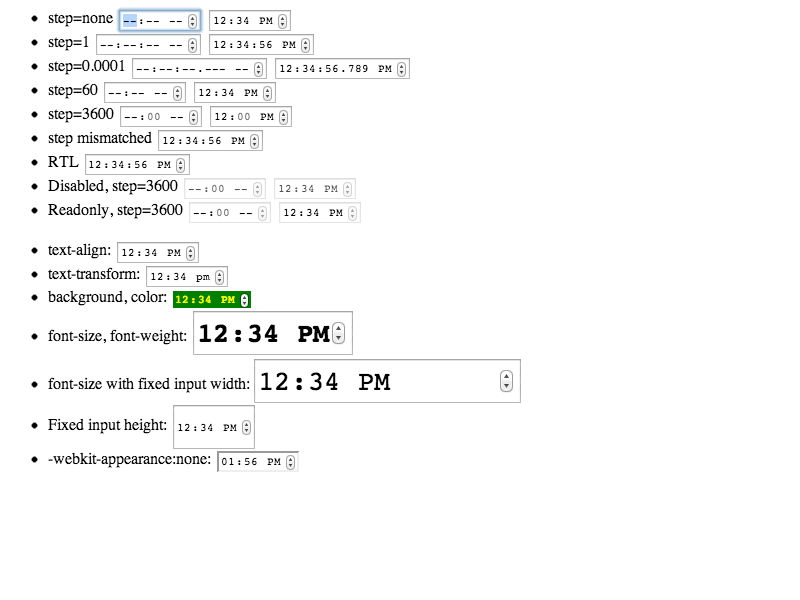
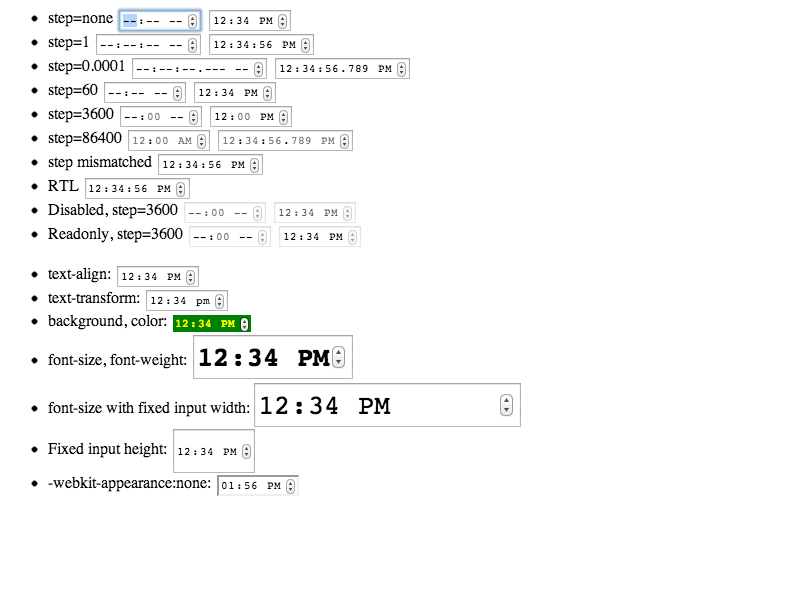
Source/WebCore: INPUT_MULTIPLE_FIELDS_UI: The hour, am/pm, millisecond fields should support read-only state correctly https://bugs.webkit.org/show_bug.cgi?id=104210
Reviewed by Kentaro Hara.

1. The hour, am/pm, and millisecond fields should have CSS rules for
   [readonly]. They should be gray when they are read-only.
2. The am/pm field should reject to set an empty value like other
   numeric fields do.

Tests: Add test cases to fast/forms/time/time-appearance-basic.html.

* css/html.css: merge existing readonly rules, and add ampm, hour, and
millisecond pseudo classes.
* html/shadow/DateTimeSymbolicFieldElement.cpp:
(WebCore::DateTimeSymbolicFieldElement::setEmptyValue):
Reject to set empty value if it is read-only.

LayoutTests: INPUT_MULTIPLE_FIELDS_UI: The hour field and the am/pm field should support read-only state correctly
https://bugs.webkit.org/show_bug.cgi?id=104210

Reviewed by Kentaro Hara.

* fast/forms/time/time-appearance-basic.html:
Add test cases for step=86400 (24 hours)
* platform/chromium-mac/fast/forms/time/time-appearance-basic-expected.png:
* platform/chromium/TestExpectations:

git-svn-id: https://svn.webkit.org/repository/webkit/trunk@136803 268f45cc-cd09-0410-ab3c-d52691b4dbfc

Changed region(s): [[0.0312, 0.21, 0.6562, 0.84]]

diff --git a/LayoutTests/fast/forms/time/time-appearance-basic.html b/LayoutTests/fast/forms/time/time-appearance-basic.html
@@ -10,6 +10,7 @@ if (window.testRunner)
     <li>step=0.0001 <input type="time" step="0.001"> <input step="0.001" type="time" value="12:34:56.789"></li>
     <li>step=60 <input type="time" step="60"> <input step="60" type="time" value="12:34"></li>
     <li>step=3600 <input type="time" step="3600"> <input step="3600" type="time" value="12:00"></li>
+    <li>step=86400 <input type="time" step="86400"> <input step="86400" type="time" min="12:34:56.789"></li>
     <li>step mismatched   <input type="time" step="60" value="12:34:56"></li>
     <li>RTL <input type="time" step="1" value="12:34:56" dir="rtl"></li>
     <li>Disabled, step=3600 <input disabled type="time" step="3600"> <input disabled step="3600" type="time" value="12:34"></li>

diff --git a/Source/WebCore/css/html.css b/Source/WebCore/css/html.css
@@ -571,12 +571,10 @@ input::-webkit-datetime-edit-year-field:focus {
     outline: none;
 }
 
-/* This selector is used when step >= 3600 second but format contains minute field. */
-input::-webkit-datetime-edit-minute-field[readonly] {
-    color: GrayText;
-}
-
-/* This selector is used when step >= 60 second but format contains second field. */
+input::-webkit-datetime-edit-ampm-field[readonly],
+input::-webkit-datetime-edit-hour-field[readonly],
+input::-webkit-datetime-edit-millisecond-field[readonly],
+input::-webkit-datetime-edit-minute-field[readonly],
 input::-webkit-datetime-edit-second-field[readonly] {
     color: GrayText;
 }

diff --git a/Source/WebCore/html/shadow/DateTimeSymbolicFieldElement.cpp b/Source/WebCore/html/shadow/DateTimeSymbolicFieldElement.cpp
@@ -107,6 +107,8 @@ int DateTimeSymbolicFieldElement::minimum() const
 
 void DateTimeSymbolicFieldElement::setEmptyValue(EventBehavior eventBehavior)
 {
+    if (isReadOnly())
+        return;
     m_selectedIndex = invalidIndex;
     updateVisibleValue(eventBehavior);
 }
